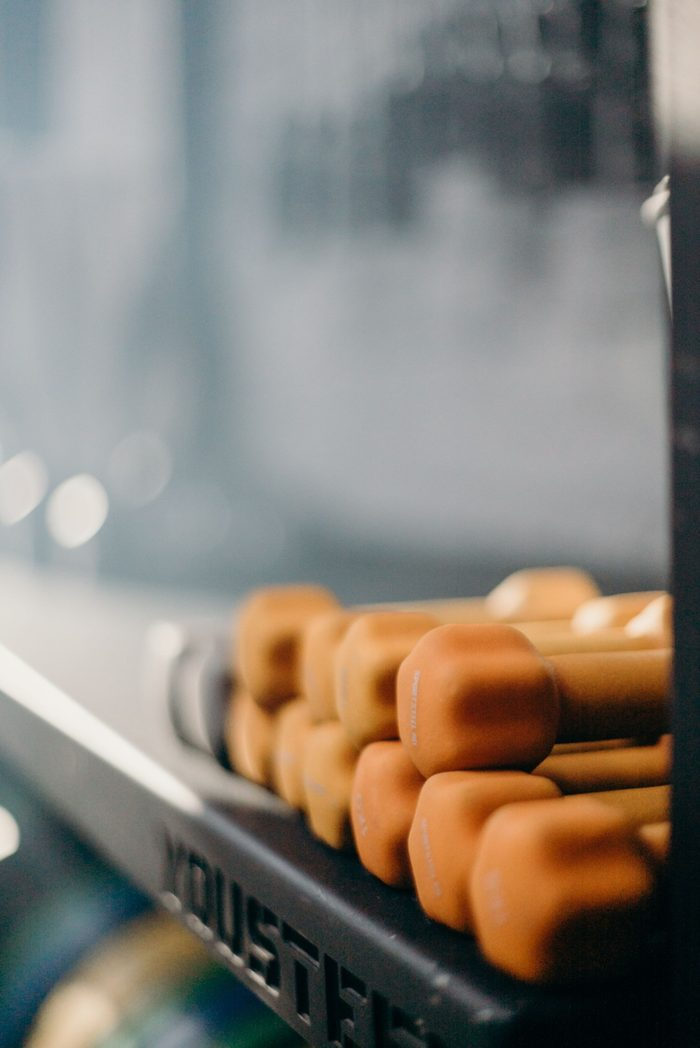
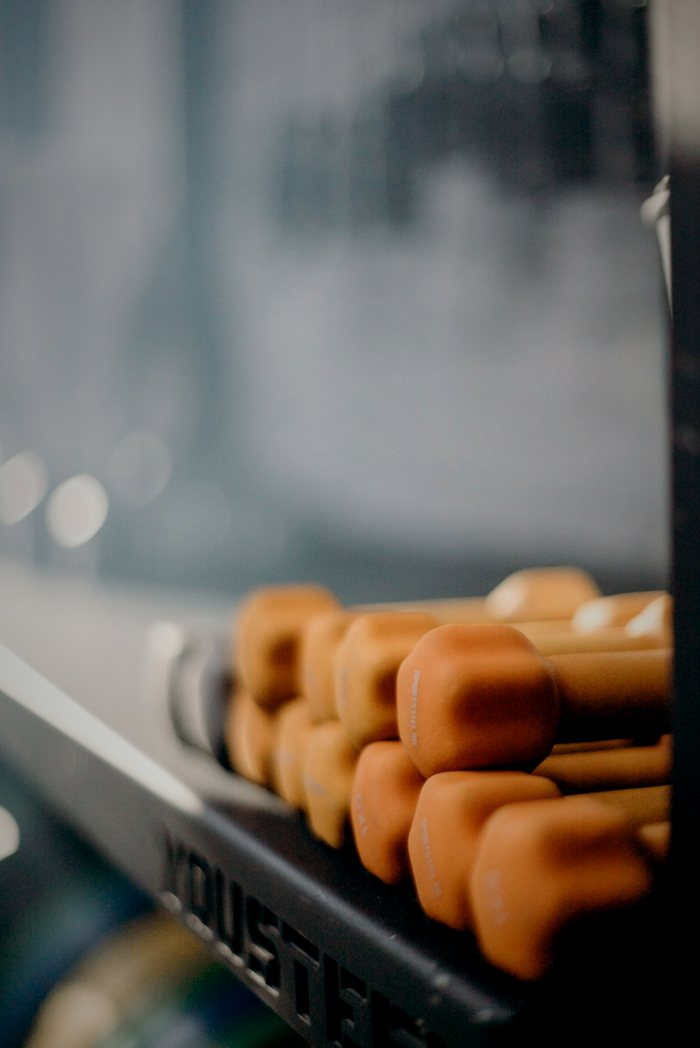
Web-Dateien aus capacitor übernommen (Fassung 2026-11-10-9): Tools-Fotos im Stil angepasst

diff --git a/index.html b/index.html
@@ -14,8 +14,8 @@
 <meta name="apple-mobile-web-app-status-bar-style" content="black-translucent">
 <meta name="apple-mobile-web-app-title" content="BLOC">
 <!-- ?v= gehört zu FASSUNG in sw.js: bei jeder neuen Fassung beide ändern -->
-<link rel="stylesheet" href="./app.css?v=2026-11-10-8">
-<link rel="stylesheet" href="./layout-new.css?v=2026-11-10-8">
+<link rel="stylesheet" href="./app.css?v=2026-11-10-9">
+<link rel="stylesheet" href="./layout-new.css?v=2026-11-10-9">
 </head>
 <body>
 <div class="glas-bg" aria-hidden="true"><i></i></div>
@@ -24,36 +24,36 @@
 <div id="overlayRoot"></div>
 <nav id="tabbar" class="tabbar hidden" aria-label="Navigation"></nav>
 
-<script src="./texte.js?v=2026-11-10-8"></script>
-<script src="./daten.js?v=2026-11-10-8"></script>
-<script src="./fotos.js?v=2026-11-10-8"></script>
-<script src="./faq.js?v=2026-11-10-8"></script>
-<script src="./js/00-native.js?v=2026-11-10-8"></script>
-<script src="./js/01-basis.js?v=2026-11-10-8"></script>
-<script src="./js/02-bibliothek.js?v=2026-11-10-8"></script>
-<script src="./js/03-router.js?v=2026-11-10-8"></script>
-<script src="./js/04-start.js?v=2026-11-10-8"></script>
-<script src="./js/05-suche.js?v=2026-11-10-8"></script>
-<script src="./js/06-timer-listen.js?v=2026-11-10-8"></script>
-<script src="./js/07-studio.js?v=2026-11-10-8"></script>
-<script src="./js/08-koerperkarte.js?v=2026-11-10-8"></script>
-<script src="./js/09-studio-karte.js?v=2026-11-10-8"></script>
-<script src="./js/10-gemeinsam.js?v=2026-11-10-8"></script>
-<script src="./js/11-bibliothek-seite.js?v=2026-11-10-8"></script>
-<script src="./js/11b-katalog.js?v=2026-11-10-8"></script>
-<script src="./js/12-uebung-statistik.js?v=2026-11-10-8"></script>
-<script src="./js/13-teilen-editor.js?v=2026-11-10-8"></script>
-<script src="./js/14-einfuehrung-sicherung.js?v=2026-11-10-8"></script>
-<script src="./js/16-lauf.js?v=2026-11-10-8"></script>
-<script src="./js/17-aufwaermen-einstellungen.js?v=2026-11-10-8"></script>
-<script src="./js/18-audio.js?v=2026-11-10-8"></script>
-<script src="./js/19-timer-motor.js?v=2026-11-10-8"></script>
-<script src="./js/19a-kalender.js?v=2026-11-10-8"></script>
-<script src="./js/20-walzen-start.js?v=2026-11-10-8"></script>
-<script src="./js/21-koerper.js?v=2026-11-10-8"></script>
-<script src="./js/22-satz-training.js?v=2026-11-10-8"></script>
-<script src="./js/23-protein.js?v=2026-11-10-8"></script>
-<script src="./js/24-fortschritt.js?v=2026-11-10-8"></script>
-<script src="./js/25-plan-assistent.js?v=2026-11-10-8"></script>
+<script src="./texte.js?v=2026-11-10-9"></script>
+<script src="./daten.js?v=2026-11-10-9"></script>
+<script src="./fotos.js?v=2026-11-10-9"></script>
+<script src="./faq.js?v=2026-11-10-9"></script>
+<script src="./js/00-native.js?v=2026-11-10-9"></script>
+<script src="./js/01-basis.js?v=2026-11-10-9"></script>
+<script src="./js/02-bibliothek.js?v=2026-11-10-9"></script>
+<script src="./js/03-router.js?v=2026-11-10-9"></script>
+<script src="./js/04-start.js?v=2026-11-10-9"></script>
+<script src="./js/05-suche.js?v=2026-11-10-9"></script>
+<script src="./js/06-timer-listen.js?v=2026-11-10-9"></script>
+<script src="./js/07-studio.js?v=2026-11-10-9"></script>
+<script src="./js/08-koerperkarte.js?v=2026-11-10-9"></script>
+<script src="./js/09-studio-karte.js?v=2026-11-10-9"></script>
+<script src="./js/10-gemeinsam.js?v=2026-11-10-9"></script>
+<script src="./js/11-bibliothek-seite.js?v=2026-11-10-9"></script>
+<script src="./js/11b-katalog.js?v=2026-11-10-9"></script>
+<script src="./js/12-uebung-statistik.js?v=2026-11-10-9"></script>
+<script src="./js/13-teilen-editor.js?v=2026-11-10-9"></script>
+<script src="./js/14-einfuehrung-sicherung.js?v=2026-11-10-9"></script>
+<script src="./js/16-lauf.js?v=2026-11-10-9"></script>
+<script src="./js/17-aufwaermen-einstellungen.js?v=2026-11-10-9"></script>
+<script src="./js/18-audio.js?v=2026-11-10-9"></script>
+<script src="./js/19-timer-motor.js?v=2026-11-10-9"></script>
+<script src="./js/19a-kalender.js?v=2026-11-10-9"></script>
+<script src="./js/20-walzen-start.js?v=2026-11-10-9"></script>
+<script src="./js/21-koerper.js?v=2026-11-10-9"></script>
+<script src="./js/22-satz-training.js?v=2026-11-10-9"></script>
+<script src="./js/23-protein.js?v=2026-11-10-9"></script>
+<script src="./js/24-fortschritt.js?v=2026-11-10-9"></script>
+<script src="./js/25-plan-assistent.js?v=2026-11-10-9"></script>
 </body>
 </html>

diff --git a/sw.js b/sw.js
@@ -7,7 +7,7 @@
  */
 
 /* Einzige Stelle für die Versionsnummer - die App fragt sie per postMessage ab (Einstellungen, ganz unten) */
-var FASSUNG = "2026-11-10-8";
+var FASSUNG = "2026-11-10-9";
 var NETZ_WARTEN = 2500;   // ms - so lange wartet der Start höchstens aufs Netz, wenn es eine gespeicherte Fassung gibt
 var SPEICHER = "sporttimer-" + FASSUNG;
 var GRUNDGERUEST = ["./", "./index.html", "./texte.js", "./quellen.html", "./daten.js", "./fotos.js", "./faq.js", "./js/00-native.js", "./js/01-basis.js", "./js/02-bibliothek.js", "./js/03-router.js", "./js/04-start.js", "./js/05-suche.js", "./js/06-timer-listen.js", "./js/07-studio.js", "./js/08-koerperkarte.js", "./js/09-studio-karte.js", "./js/10-gemeinsam.js", "./js/11-bibliothek-seite.js", "./js/11b-katalog.js", "./js/12-uebung-statistik.js", "./js/13-teilen-editor.js", "./js/14-einfuehrung-sicherung.js", "./js/16-lauf.js", "./js/17-aufwaermen-einstellungen.js", "./js/18-audio.js", "./js/19-timer-motor.js", "./js/19a-kalender.js", "./js/20-walzen-start.js", "./js/21-koerper.js", "./js/22-satz-training.js", "./js/23-protein.js", "./js/24-fortschritt.js", "./js/25-plan-assistent.js", "./img/neu-protein.jpg", "./app.css", "./layout-new.css", "./img/neu-workout.jpg", "./img/neu-mobility.jpg", "./img/neu-timer.jpg", "./img/neu-run.jpg", "./img/neu-builder.webp", "./img/neu-kopf.jpg", "./img/neu-kopf-hell.jpg", "./img/neu-kopf-hell-meer.jpg", "./img/neu-h-halle.jpg", "./img/neu-h-kettlebell.jpg", "./img/neu-h-dehnen.jpg", "./img/neu-d-kalender.jpg", "./img/neu-d-katalog.jpg", "./img/neu-run-bg.jpg", "./img/neu-hell-hintergrund.jpg", "./img/neu-p-freiluft-meer.jpg", "./img/neu-faq.jpg", "./img/neu-wissen.jpg", "./img/neu-h-hanteln-orange.jpg", "./img/neu-p-dehnung-silhouette.jpg", "./img/neu-freiluft.jpg", "./img/neu-p-freiluft-meer.jpg", "./img/neu-p-liegestuetz-strand.jpg", "./img/neu-p-liegestuetz-stadt.jpg", "./img/neu-p-studio-hantelreihe.jpg", "./img/neu-p-studio-gewichtsblock.jpg", "./img/neu-p-studio-halle.jpg", "./img/neu-p-frau-latzug.jpg", "./img/neu-p-timer-box.jpg", "./img/neu-p-frau-klimmzug.jpg", "./img/neu-p-frau-kniebeuge.jpg", "./img/neu-p-liegestuetz-feld.jpg", "./img/neu-p-mobility-ausfall.jpg", "./img/neu-p-mobility-sitz.jpg", "./img/neu-p-run-licht.jpg", "./img/neu-p-run-strasse.jpg", "./img/neu-p-run-sw.jpg", "./img/neu-p-freiluft-leiter.jpg", "./manifest.json", "./icon.png", "./icon-180.png", "./privacy.html", "./img/ort-fitnessstudio.jpg", "./img/ort-freiluft.jpg", "./img/start-halle.jpg", "./img/bereich-run.jpg", "./img/bereich-suche.jpg"];

diff --git a/js/05-suche.js b/js/05-suche.js
@@ -387,7 +387,7 @@ function faqHTML(){
 /* Aussehen „New“: Seite „Tools“ - die oberste Kachel steht groß (Standard: Workout-Builder), die übrigen versetzt in zwei Spalten, die letzte bei ungerader Zahl über die ganze Breite.
    Reihenfolge in settings.toolsReihe; Kachel lange drücken (0,5 s) und ziehen verschiebt sie. */
 /* Farbstärke je Foto auf Tools: aus der Sättigung der kräftigsten Bildanteile (90. Perzentil) gemessen, damit alle Kacheln nach dem Angleichen gleich kräftig wirken (Ziel 0,36) */
-var FOTO_SAT = { "img/neu-h-hanteln-orange.jpg":.5, "img/neu-wissen.jpg":1, "img/neu-p-dehnung-silhouette.jpg":1, "img/neu-p-frau-kniebeuge.jpg":.68, "img/neu-h-rack.jpg":.63, "img/neu-faq.jpg":.52, "img/neu-protein.jpg":.82, "img/bereich-run.jpg":.68, "img/neu-p-mobility-sitz.jpg":1, "img/neu-p-mobility-ausfall.jpg":1, "img/neu-h-brust-2.jpg":.78 };
+var FOTO_SAT = { "img/neu-h-hanteln-orange.jpg":.78, "img/neu-wissen.jpg":1, "img/neu-p-dehnung-silhouette.jpg":1, "img/neu-p-frau-kniebeuge.jpg":.68, "img/neu-h-rack.jpg":.63, "img/neu-faq.jpg":.52, "img/neu-protein.jpg":.82, "img/bereich-run.jpg":.68, "img/neu-p-mobility-sitz.jpg":1, "img/neu-p-mobility-ausfall.jpg":1, "img/neu-h-brust-2.jpg":.78 };
 var TOOLS_KEYS = ["katalog", "run", "plan", "warm", "intervall", "protein", "faq"];   // Standardreihenfolge: Protein Tracker und Wissensaustausch ganz unten
 function toolsReihe(){
   var r = [];

diff --git a/VERLAUF.md b/VERLAUF.md
@@ -3,6 +3,10 @@
 Kurze Notizen zu den **letzten Änderungen** (ab 2026-10-05), jeweils mit der Fassung. Ältere Einträge stehen im
 [Archiv](docs/VERLAUF-Archiv.md). Den **aktuellen** Stand beschreibt die [README](README.md).
 
+## 2026-11-10 · Neue Tools-Fotos im Stil der anderen (Fassung 2026-11-10-9)
+
+- Die drei neuen Fotos (Timer, Trainingsplan, Wissensaustausch) sind farblich an die übrigen Tools-Kacheln angepasst: warmer, dunklerer Ton mit Vignette; das sehr helle Kachel-Bild für Wissensaustausch wurde auf mittleres Grau gepegelt, die Hanteln kräftiger gemacht, die Silhouette leicht gewärmt. `FOTO_SAT` für die Hanteln auf 0,78.
+
 ## 2026-11-10 · Neue Fotos auf Tools: Timer, Trainingsplan, Wissensaustausch (Fassung 2026-11-10-8)
 
 - **Tools:** Timer zeigt die Ausfallschritt-Dehnung als Silhouette (`img/neu-p-dehnung-silhouette.jpg`, festgelegt in `bereichFotosNeu`, `js/03-router.js`), Trainingsplan die orangen Hanteln (`img/neu-h-hanteln-orange.jpg`), Wissensaustausch die hellen Kacheln mit Lupe (`img/neu-wissen.jpg`); Ausschnitt und Farbstärke in `js/05-suche.js` (`FOTO_SAT`). Die Bilder liegen auch in der Offline-Liste von `sw.js`. Quelle und Lizenz der drei Fotos bitte in `quellen.html › Bildnachweis` ergänzen, falls sie nicht von Pexels stammen.
